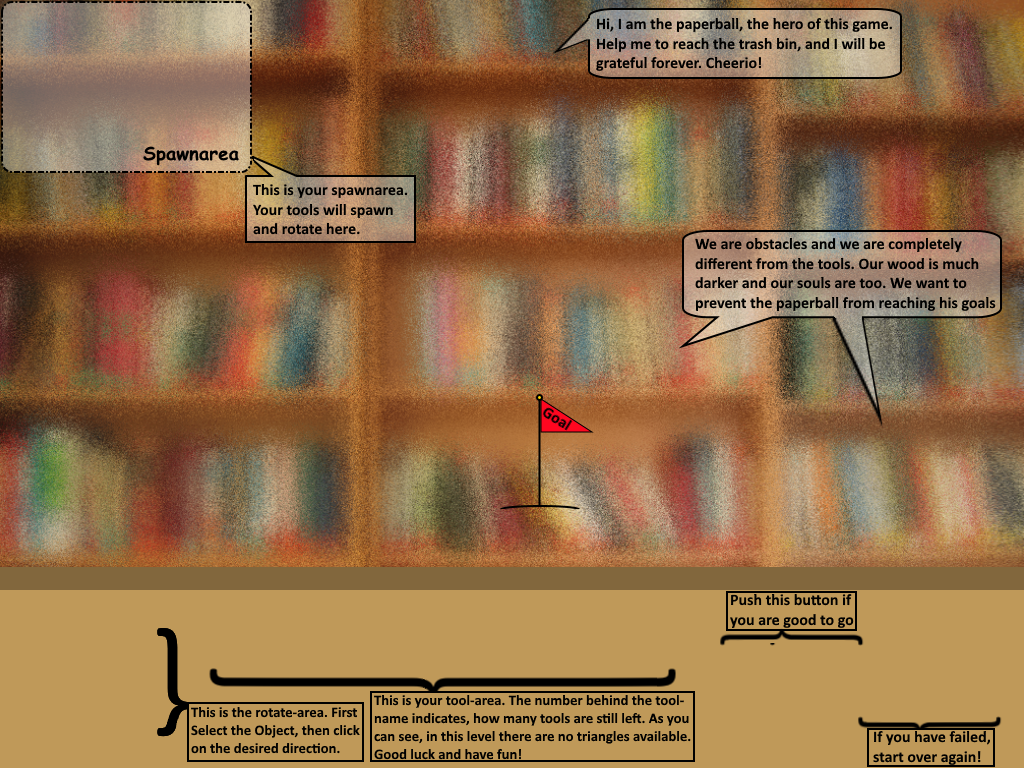
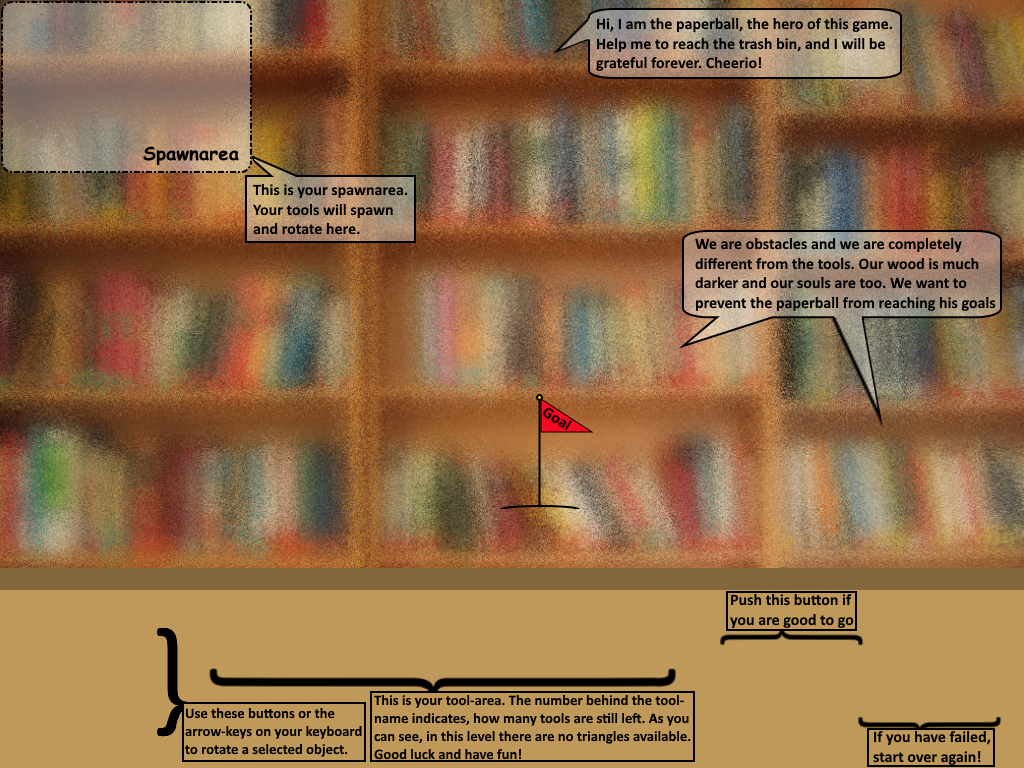
update, but unsolved behaviour of triangle (lvl4)

Changed region(s): [[0.1562, 0.9062, 0.375, 1.0]]

diff --git a/Game/level_4.cpp b/Game/level_4.cpp
@@ -89,15 +89,8 @@ void Level_4::startLevel(){
     recyclebin1->graphics->setFlag(QGraphicsItem::ItemIsMovable,false);
     recyclebin2->drawGraphics();
     recyclebin2->graphics->setFlag(QGraphicsItem::ItemIsMovable,false);
-    obstaclescircle1->drawGraphics();
-    //obstaclesrec1->drawGraphics();
 
     ball->graphics->setFlag(QGraphicsItem::ItemIsMovable,false);
-    obstaclescircle1->graphics->setFlag(QGraphicsItem::ItemIsMovable,false);
-    obstaclescircle1->graphics->setFlag(QGraphicsItem::ItemIsSelectable,false);
-    //obstaclescircle2->graphics->setFlag(QGraphicsItem::ItemIsMovable,false);
-    //obstaclescircle2->graphics->setFlag(QGraphicsItem::ItemIsSelectable,false);
-
 
     if(counterRec==1){
         addblock1->drawGraphics();
@@ -153,7 +146,7 @@ void Level_4::startLevel(){
     bt_start->setEnabled(false);
     bt__rect->setEnabled(false);
     bt__circle->setEnabled(false);
-
+    bt__triangle->setEnabled(false);
 
     leveltime_elapsed.start();
 
@@ -301,7 +294,7 @@ void Level_4::getTime(){
  */
 void Level_4::highscoreCounter(){
 
-    counterTogether = counterRec + counterCircle;
+    counterTogether = counterRec + counterCircle + counterTriangle;
 
     if ( (counterTogether==6)||(counterTogether==5) ){
         highscore = 1;
@@ -493,10 +486,10 @@ void Level_4::showLevel(){
 
      ball  = new Paperball(myWorld4, level4, QPointF(540.0,20.0), 0*(3.14/180.0), b2_dynamicBody, circle);
 
-     obstaclescircle1 = new Circle(myWorld4, level4, QPointF(0.0,547), 0*(3.14/180.0), b2_staticBody, circle,"obs");
+     trampoline1 = new Trampoline(myWorld4,level4,b2Vec2(200,220),0,100,40,b2_staticBody,1.0,"obs");
+     trampoline2 = new Trampoline(myWorld4,level4,b2Vec2(100,220),0,100,40,b2_staticBody,1.0,"obs");
 
-
-     //obstaclesrec1=new Block(myWorld4,level4,b2Vec2(200,100),0,100,40,b2_staticBody,1.0,"obs");
+     obstaclesrec1=new Block(myWorld4,level4,b2Vec2(1000,225),0,100,40,b2_staticBody,1.0,"obs");
      obstaclesrec2=new Block(myWorld4,level4,b2Vec2(300,100),0,100,40,b2_staticBody,1.0,"obs");
      obstaclesrec2=new Block(myWorld4,level4,b2Vec2(400,100),0,100,40,b2_staticBody,1.0,"obs");
      obstaclesrec3=new Block(myWorld4,level4,b2Vec2(500,100),0,100,40,b2_staticBody,1.0,"obs");
@@ -512,20 +505,16 @@ void Level_4::showLevel(){
      obstaclesrec13=new Block(myWorld4,level4,b2Vec2(350,400),0,100,40,b2_staticBody,1.0,"obs");
      obstaclesrec14=new Block(myWorld4,level4,b2Vec2(450,400),0,100,40,b2_staticBody,1.0,"obs");
      obstaclesrec15=new Block(myWorld4,level4,b2Vec2(550,400),0,100,40,b2_staticBody,1.0,"obs");
-     //obstaclesrec16=new Block(myWorld4,level4,b2Vec2(200,400),0,100,40,b2_staticBody,1.0,"obs");
+     obstaclesrec16=new Block(myWorld4,level4,b2Vec2(300,500),0,100,40,b2_staticBody,1.0,"obs");
      obstaclesrec17=new Block(myWorld4,level4,b2Vec2(100,400),0,100,40,b2_staticBody,1.0,"obs");
      obstaclesrec18=new Block(myWorld4,level4,b2Vec2(0,400),0,100,40,b2_staticBody,1.0,"obs");
      obstaclesrec19=new Block(myWorld4,level4,b2Vec2(750,400),0,100,40,b2_staticBody,1.0,"obs");
      obstaclesrec20=new Block(myWorld4,level4,b2Vec2(850,400),0,100,40,b2_staticBody,1.0,"obs");
      obstaclesrec21=new Block(myWorld4,level4,b2Vec2(950,400),0,100,40,b2_staticBody,1.0,"obs");
      obstaclesrec22=new Block(myWorld4,level4,b2Vec2(200,500),0,100,40,b2_staticBody,1.0,"obs");
-     obstaclesrec23=new Block(myWorld4,level4,b2Vec2(300,500),0,100,40,b2_staticBody,1.0,"obs");
-     obstaclesrec24=new Block(myWorld4,level4,b2Vec2(1000,225),0,100,40,b2_staticBody,1.0,"obs");
-     //obstaclesrec25=new Block(myWorld4,level4,b2Vec2(530,380),0,100,40,b2_staticBody,1.0,"obs");
 
      obstacletriangle1=new Triangle(myWorld4,level4,QPointF(300,280),QPointF(400,280),QPointF(400,380),1.57,b2_staticBody,1.0,"obs");
      obstacletriangle2=new Triangle(myWorld4,level4,QPointF(400,280),QPointF(500,280),QPointF(500,380),3.1415,b2_staticBody,1.0,"obs");
-
 
      recyclebin1 = new RecycleBin(myWorld4, level4, QPointF(500,508),QPointF(510,508),QPointF(530,568),QPointF(520,568), 0.0, b2_staticBody);
      recyclebin2 = new RecycleBin(myWorld4, level4, QPointF(550,568),QPointF(570,508),QPointF(580,508),QPointF(560,568), 0.0, b2_staticBody);
@@ -534,10 +523,6 @@ void Level_4::showLevel(){
      bottom= new MeinElement(myWorld4, level4, b2Vec2(0.0,level4->height()-200), level4->width(), 22, b2_staticBody, 0.1);
 
      ball->graphics->setFlag(QGraphicsItem::ItemIsMovable,false);
-
-     obstaclescircle1->draw(); //Static Elemente lassen sich auch hier "drawn"
-     //obstaclescircle2->draw();
-
      ball->drawBall1();
 
      bottom->drawBottom();

diff --git a/Game/gui.cpp b/Game/gui.cpp
@@ -767,6 +767,7 @@ void GUI::box()
     QGraphicsTextItem* rectText = new QGraphicsTextItem(QString("The block is the most common tool in the game. It can even be rotated, simply select" "\n"
                                                                 "the object (through clicking on it) and push the arrow buttons '<-' & '->' to rotate the" "\n"
                                                                 "object. Pressing the '->' button will lead to a clockwise rotation, and vise versa." "\n"
+                                                                "You can rotate via the arrow-keys on your keyboard, too." "\n"
                                                                 "To unselect the object just click elsewhere." "\n"
                                                                 "To move the object click and hold on the object and drag it with your mouse."
                                                                 ));
@@ -901,6 +902,7 @@ void GUI::triangle()
                                                                "useful to solve levels. It can be rotated, simply select the object (through" "\n"
                                                                "clicking on it) and push the arrow buttons '<-' & '->' to rotate the object." "\n"
                                                                "Pressing the '->' button will lead to a clockwise rotation, and vise versa." "\n"
+                                                               "You can rotate via the arrow-keys on your keyboard, too." "\n"
                                                                "To unselect the object just click elsewhere. To move the object click and hold " "\n"
                                                                "on the object and drag it with your mouse."
                                                                 ));

diff --git a/Game/level_4.h b/Game/level_4.h
@@ -19,6 +19,7 @@
 #include <paperball.h>
 #include "triangle.h"
 #include "picbutton.h"
+#include "trampoline.h"
 #include "block.h"
 
 
@@ -89,7 +90,6 @@ private:
     //fixed Elements
 
     Paperball* ball;
-    Circle* obstaclescircle1;
 
     Block* obstaclesrec1;
     Block* obstaclesrec2;
@@ -113,10 +113,10 @@ private:
     Block* obstaclesrec20;
     Block* obstaclesrec21;
     Block* obstaclesrec22;
-    Block* obstaclesrec23;
-    Block* obstaclesrec24;
-    //Block* obstaclesrec25;
 
+
+    Trampoline* trampoline1;
+    Trampoline* trampoline2;
 
     Triangle* obstacletriangle1;
     Triangle* obstacletriangle2;

diff --git a/Game/level_3.cpp b/Game/level_3.cpp
@@ -153,6 +153,7 @@ void Level_3::startLevel(){
     bt_start->setEnabled(false);
     bt__rect->setEnabled(false);
     bt__circle->setEnabled(false);
+    bt__triangle->setEnabled(false);
 
 
     leveltime_elapsed.start();
@@ -301,7 +302,7 @@ void Level_3::getTime(){
  */
 void Level_3::highscoreCounter(){
 
-    counterTogether = counterRec + counterCircle;
+    counterTogether = counterRec + counterCircle + counterTriangle;
 
     if ( (counterTogether==6)||(counterTogether==5) ){
         highscore = 1;

diff --git a/Game/level_2.cpp b/Game/level_2.cpp
@@ -301,7 +301,7 @@ void Level_2::getTime(){
  */
 void Level_2::highscoreCounter(){
 
-    counterTogether = counterRec + counterCircle;
+    counterTogether = counterRec + counterCircle + counterTriangle;
 
     if ( (counterTogether==6)||(counterTogether==5) ){
         highscore = 1;
